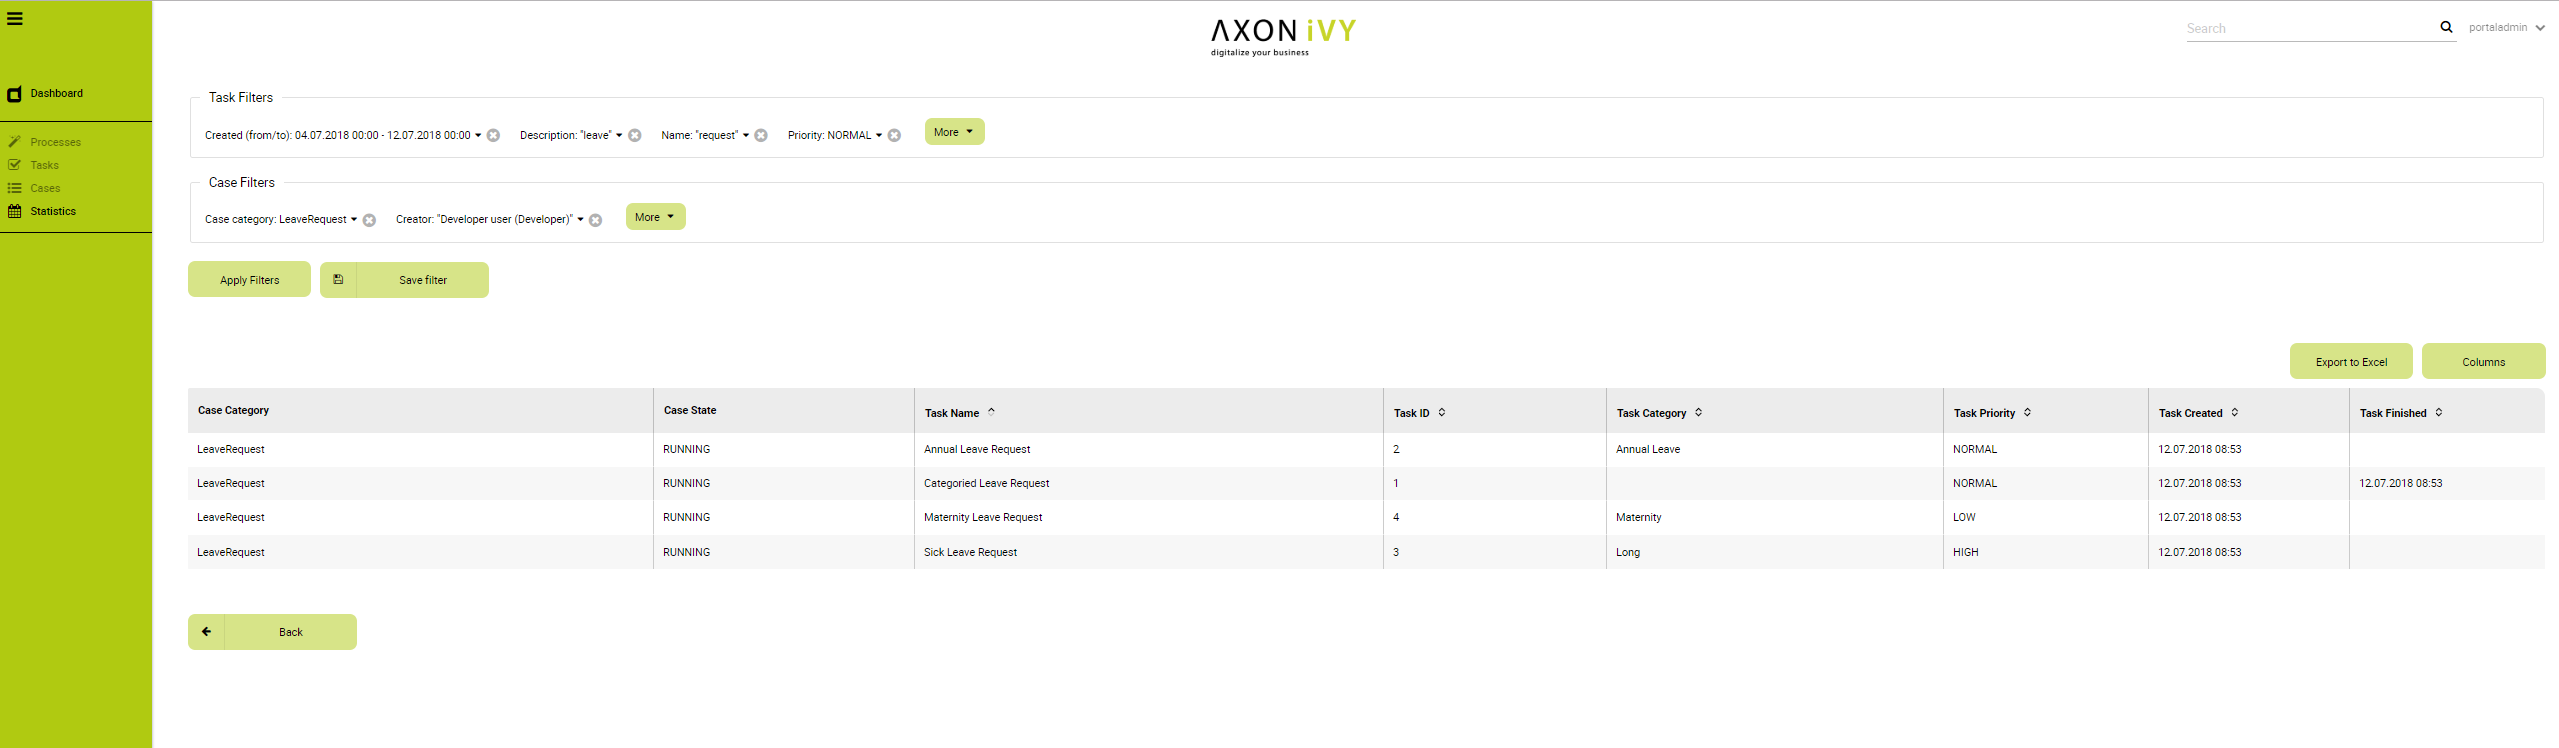
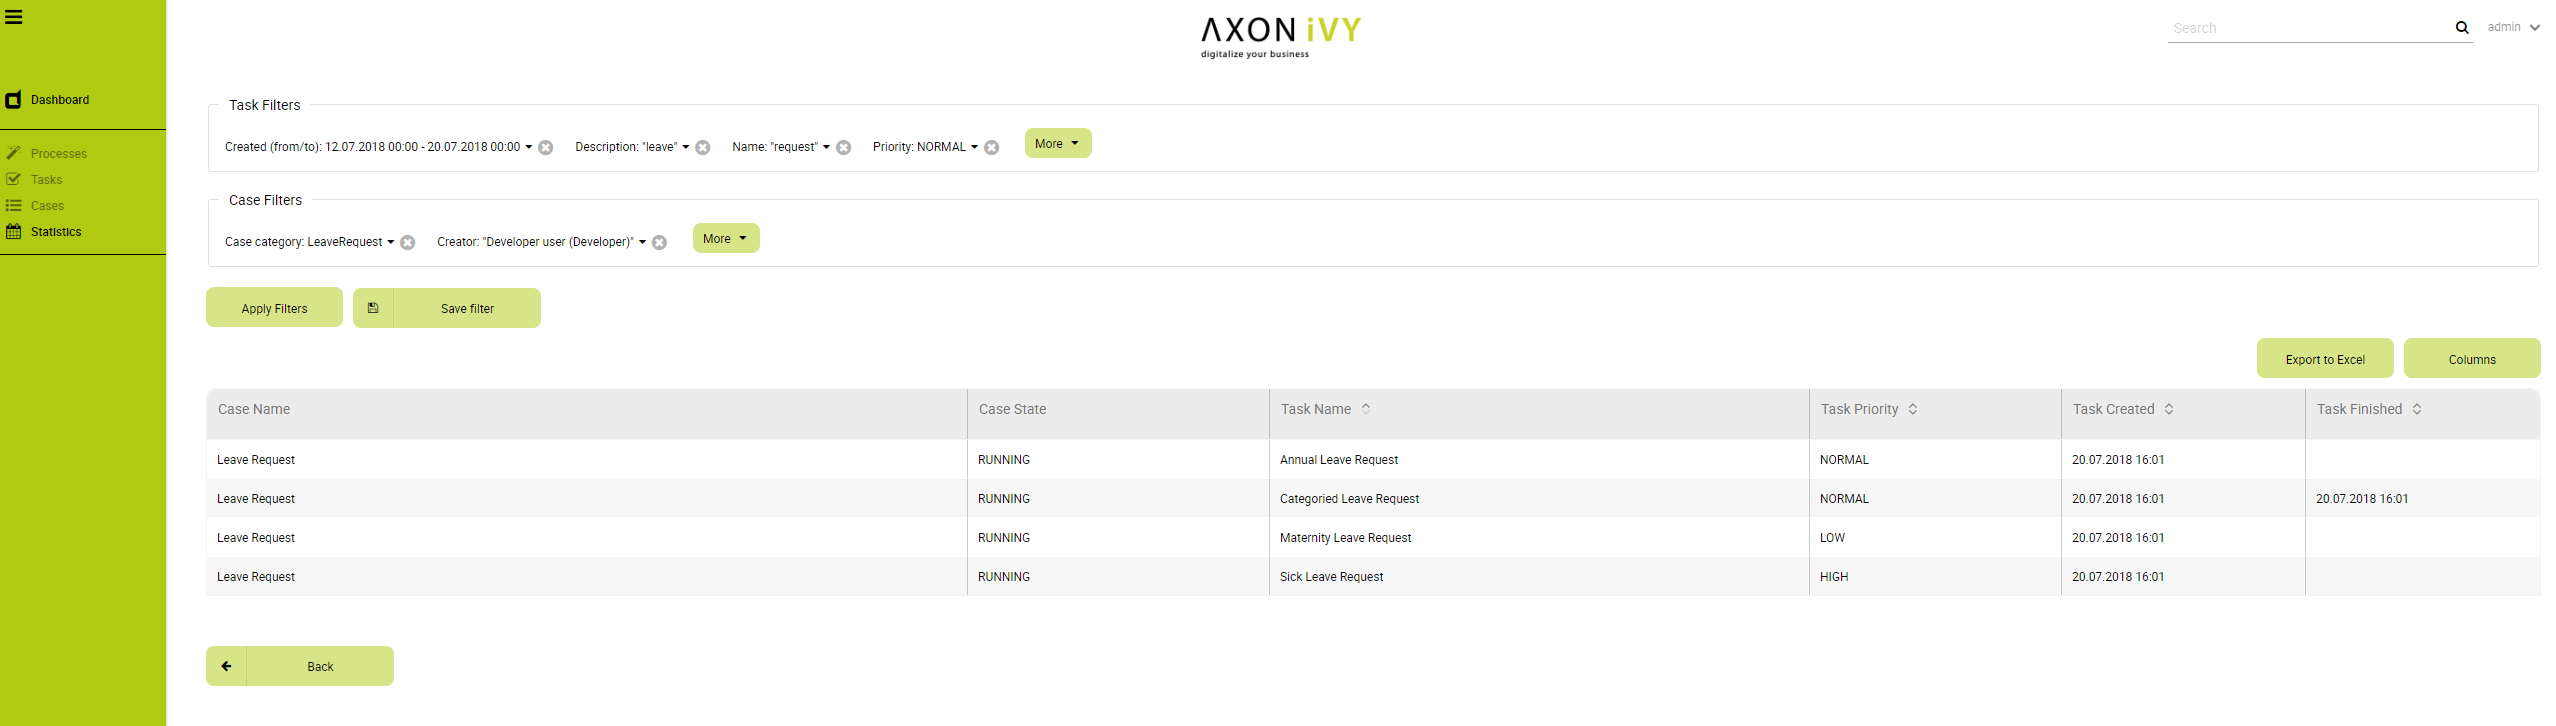
IVYPORTAL-5808: Data table styling rework and tab header - Implement - Update images of documentation - Fix case/task note history table layout

diff --git a/AxonIvyPortal/PortalKit/webContent/resources/css/module.css b/AxonIvyPortal/PortalKit/webContent/resources/css/module.css
@@ -470,19 +470,21 @@
 
 .ui-datatable table thead tr th {
   height: 30px;
-  color: rgba(0, 0, 0, 1);
+  color: #757575;
   background-color: rgba(236, 236, 236, 1);
-  font-size: 1.2rem;
-  font-family: 'robotobold';
+  font-size: 1.4rem !important;
+  font-weight: normal !important;
+  font-family: 'robotoregular' !important;
   border-right: 1px solid rgba(0, 0, 0, 0.2);
   text-align: left;
+  vertical-align: top;
 }
 
 .ui-datatable table thead tr th .ui-sortable-column-icon.ui-icon {
   background-image: none;
   text-indent: 0;
-  margin: 2px 0px -1px 10px;
-  height: 17px;
+  margin: -4px 0px -1px 10px;
+  height: 20px;
 }
 
 .ui-datatable table thead tr th .ui-sortable-column-icon:before {
@@ -495,8 +497,12 @@
   font-family: 'FontAwesome';
   content: "\f107";
   position: relative;
-  left: -8px;
-  top: 6px;
+  left: -9px;
+  top: 7px;
+}
+
+.ui-datatable table thead tr th .ui-column-customfilter span input {
+	width: 100%;
 }
 
 .ui-datatable table thead tr th .ui-sortable-column-icon.ui-icon-triangle-1-n:after {
@@ -1022,6 +1028,31 @@ ul.ui-selectonemenu-list li.ui-selectonemenu-item.ui-state-hover {
   padding: 15px 0 !important;
 }
 /* =================== END AUTOCOMPLETE ====================== */
+
+/* =================== FIELDSET ====================== */
+.ui-fieldset-legend {
+  background-color: #fff;
+  color: #000;
+  padding: 0 10px !important;
+  font-family: "robotoregular";
+}
+
+.ui-fieldset-legend .ui-icon-minusthick {
+    background-image: url(/ivy/faces/javax.faces.resource/images/minus-sign-gray.svg?ln=primefaces-modena-ivy);
+   
+}
+
+.ui-fieldset-legend .ui-icon-plusthick {
+    background-image: url(/ivy/faces/javax.faces.resource/images/plus-sign-gray.svg?ln=primefaces-modena-ivy);
+
+}
+
+.ui-fieldset-legend.ui-state-hover {
+    background-color: #ffffff;
+}
+
+/* =================== END FIELDSET ====================== */
+
 .widget-header {
   display: flex;
   flex-flow: row wrap;
@@ -4975,13 +5006,6 @@ margin-top
 /*********** CASE AND TASK STATISTIC PAGE ***********/
 .analysis-task-widget .widget-header-main-title {
   position: relative;
-}
-
-.analysis-task-widget .filter-fieldset .ui-fieldset-legend {
-  background-color: #fff;
-  color: #000;
-  padding: 0 10px !important;
-  font-family: "robotoregular";
 }
 
 .analysis-task-widget .filter-buttons-container .ui-button {
